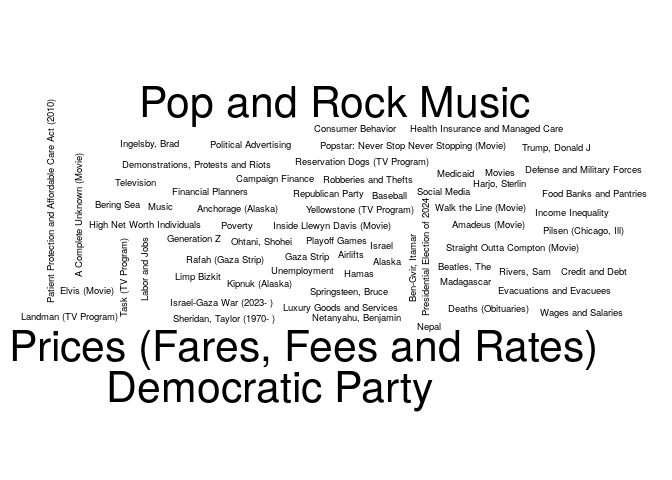
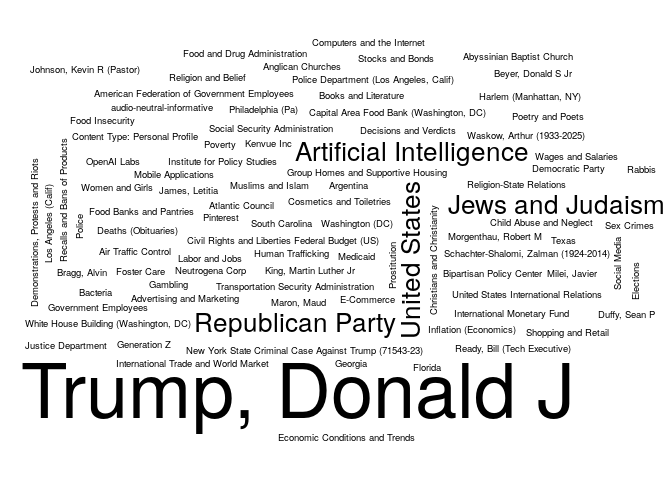
Updating the NYT report

diff --git a/03-nytimes/README.md b/03-nytimes/README.md
@@ -5,7 +5,7 @@ The following is an example of how to use the [NYTimes
 API](https://developer.nytimes.com/) to get a list of articles related
 to a particular term. Here we are searching articles that include the
 term `"health"`, and that were published up to seven days ago since
-2025-10-20.
+2025-10-27.
 
 ``` r
 # Preparing a function to use the GET method with the NYTimes API
@@ -83,25 +83,25 @@ colnames(tab) <- c("Keyword", "# Articles")
 knitr::kable(tab, row.names = FALSE)
 ```
 
-| Keyword                               | \# Articles |
-|:--------------------------------------|------------:|
-| United States Politics and Government |          15 |
-| Democratic Party                      |          10 |
-| Pop and Rock Music                    |          10 |
-| Prices (Fares, Fees and Rates)        |          10 |
-| A Complete Unknown (Movie)            |           5 |
-| Airlifts                              |           5 |
-| Alaska                                |           5 |
-| Amadeus (Movie)                       |           5 |
-| Anchorage (Alaska)                    |           5 |
-| Baseball                              |           5 |
-| Beatles, The                          |           5 |
-| Ben-Gvir, Itamar                      |           5 |
-| Bering Sea                            |           5 |
-| Campaign Finance                      |           5 |
-| Consumer Behavior                     |           5 |
-| Credit and Debt                       |           5 |
-| Deaths (Obituaries)                   |           5 |
-| Defense and Military Forces           |           5 |
-| Demonstrations, Protests and Riots    |           5 |
-| Elvis (Movie)                         |           5 |
+| Keyword                                     | \# Articles |
+|:--------------------------------------------|------------:|
+| Trump, Donald J                             |          25 |
+| United States Politics and Government       |          20 |
+| Artificial Intelligence                     |          10 |
+| Jews and Judaism                            |          10 |
+| Republican Party                            |          10 |
+| United States                               |          10 |
+| Abyssinian Baptist Church                   |           5 |
+| Advertising and Marketing                   |           5 |
+| Air Traffic Control                         |           5 |
+| American Federation of Government Employees |           5 |
+| Anglican Churches                           |           5 |
+| Argentina                                   |           5 |
+| Atlantic Council                            |           5 |
+| audio-neutral-informative                   |           5 |
+| Bacteria                                    |           5 |
+| Beyer, Donald S Jr                          |           5 |
+| Bipartisan Policy Center                    |           5 |
+| Books and Literature                        |           5 |
+| Bragg, Alvin                                |           5 |
+| Capital Area Food Bank (Washington, DC)     |           5 |
